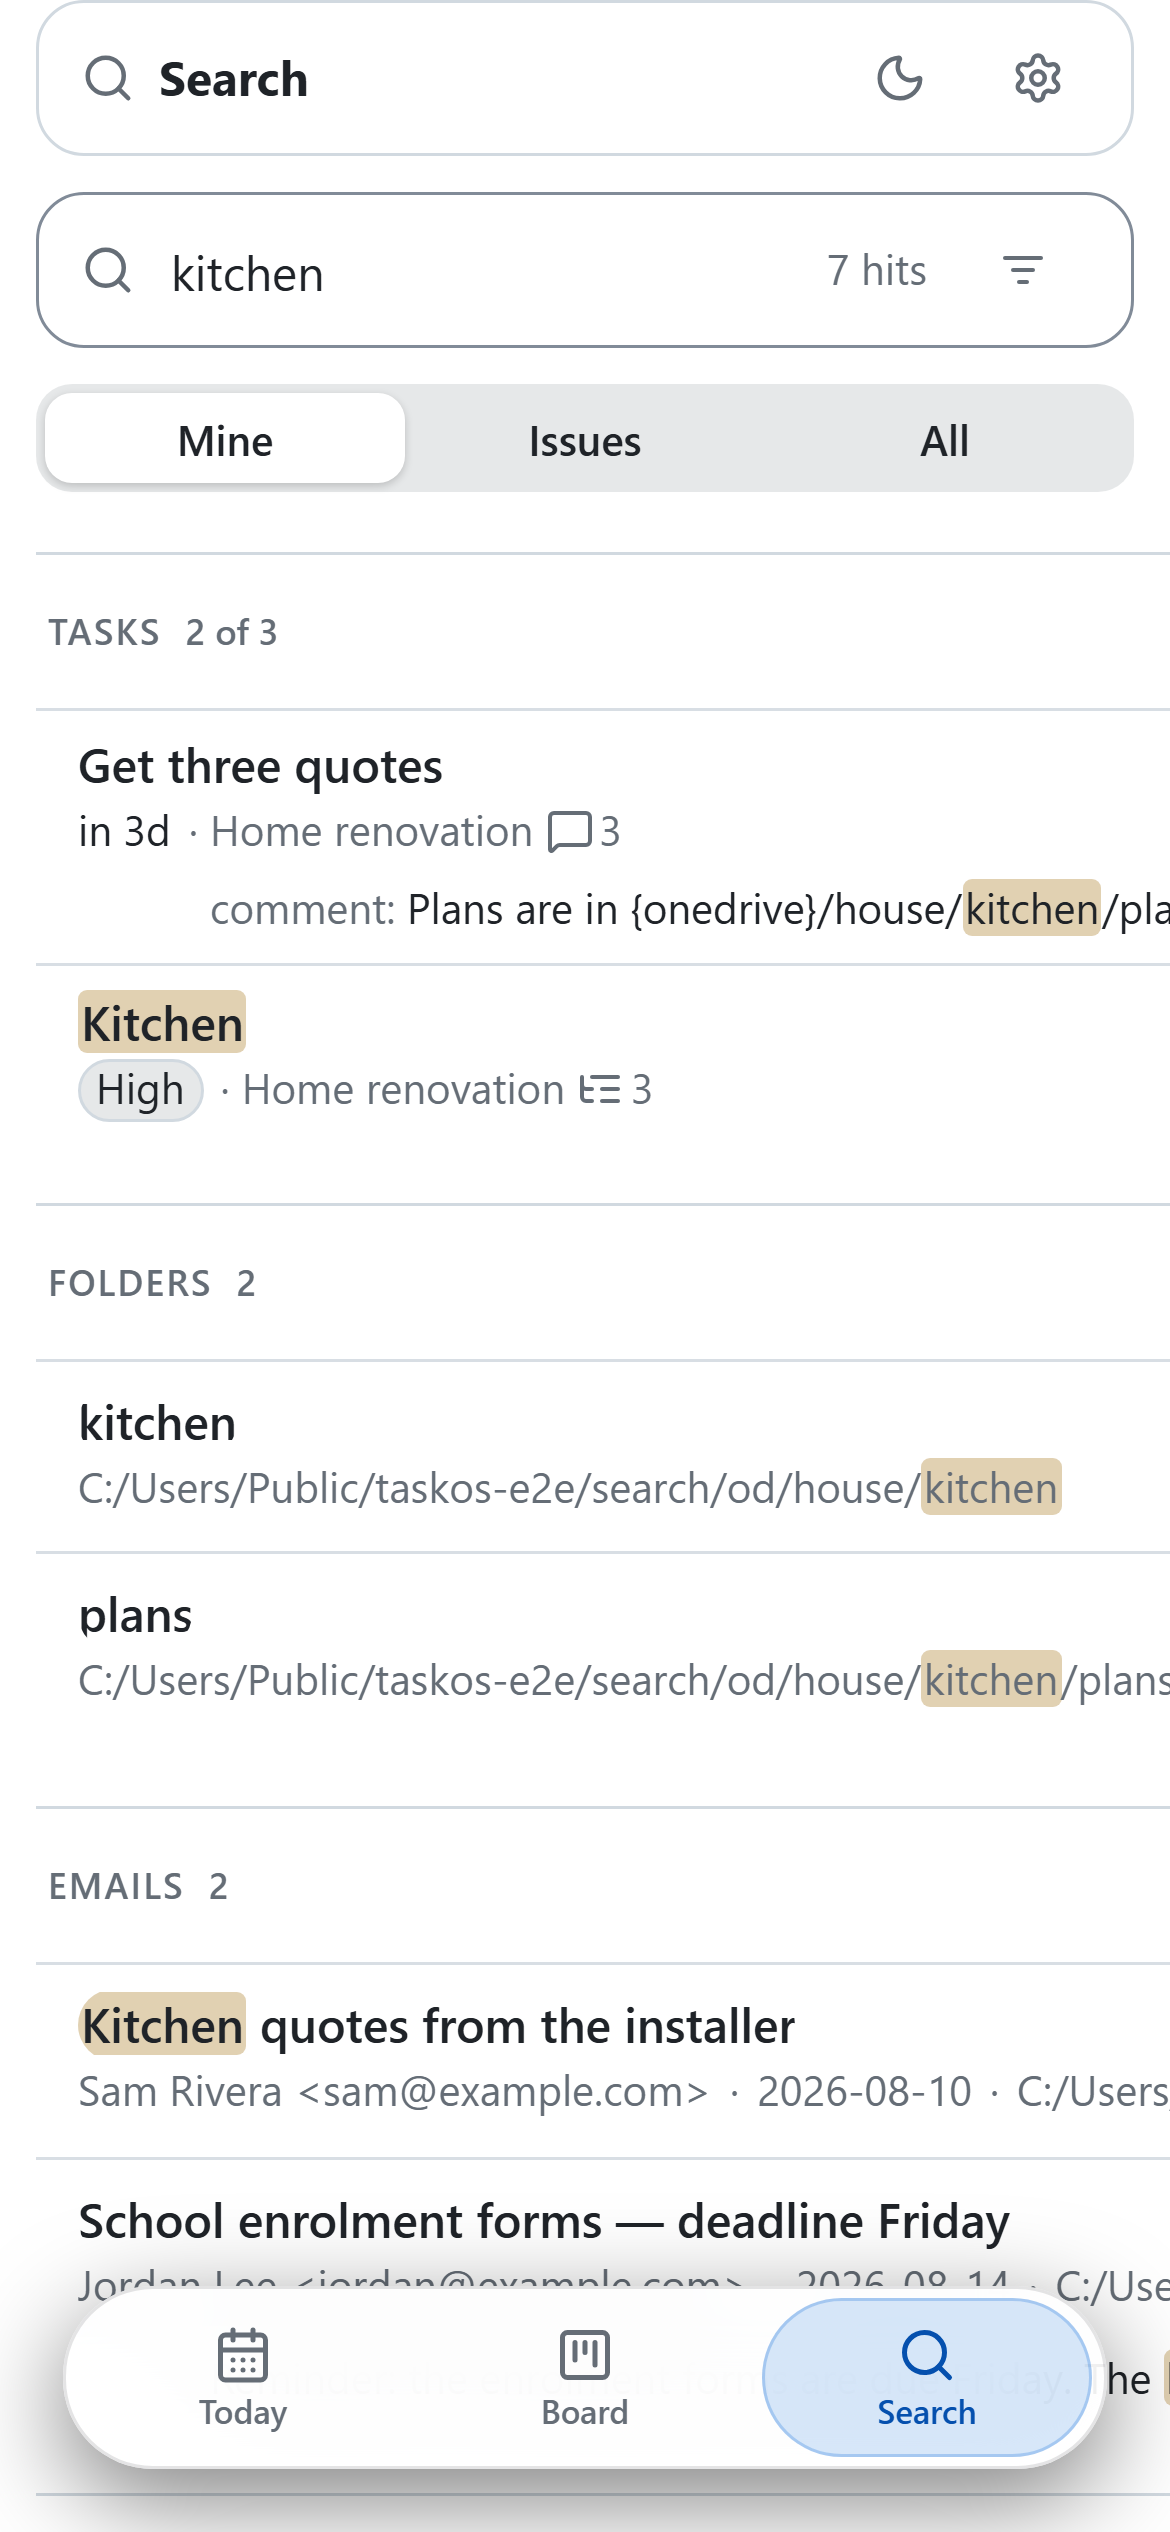
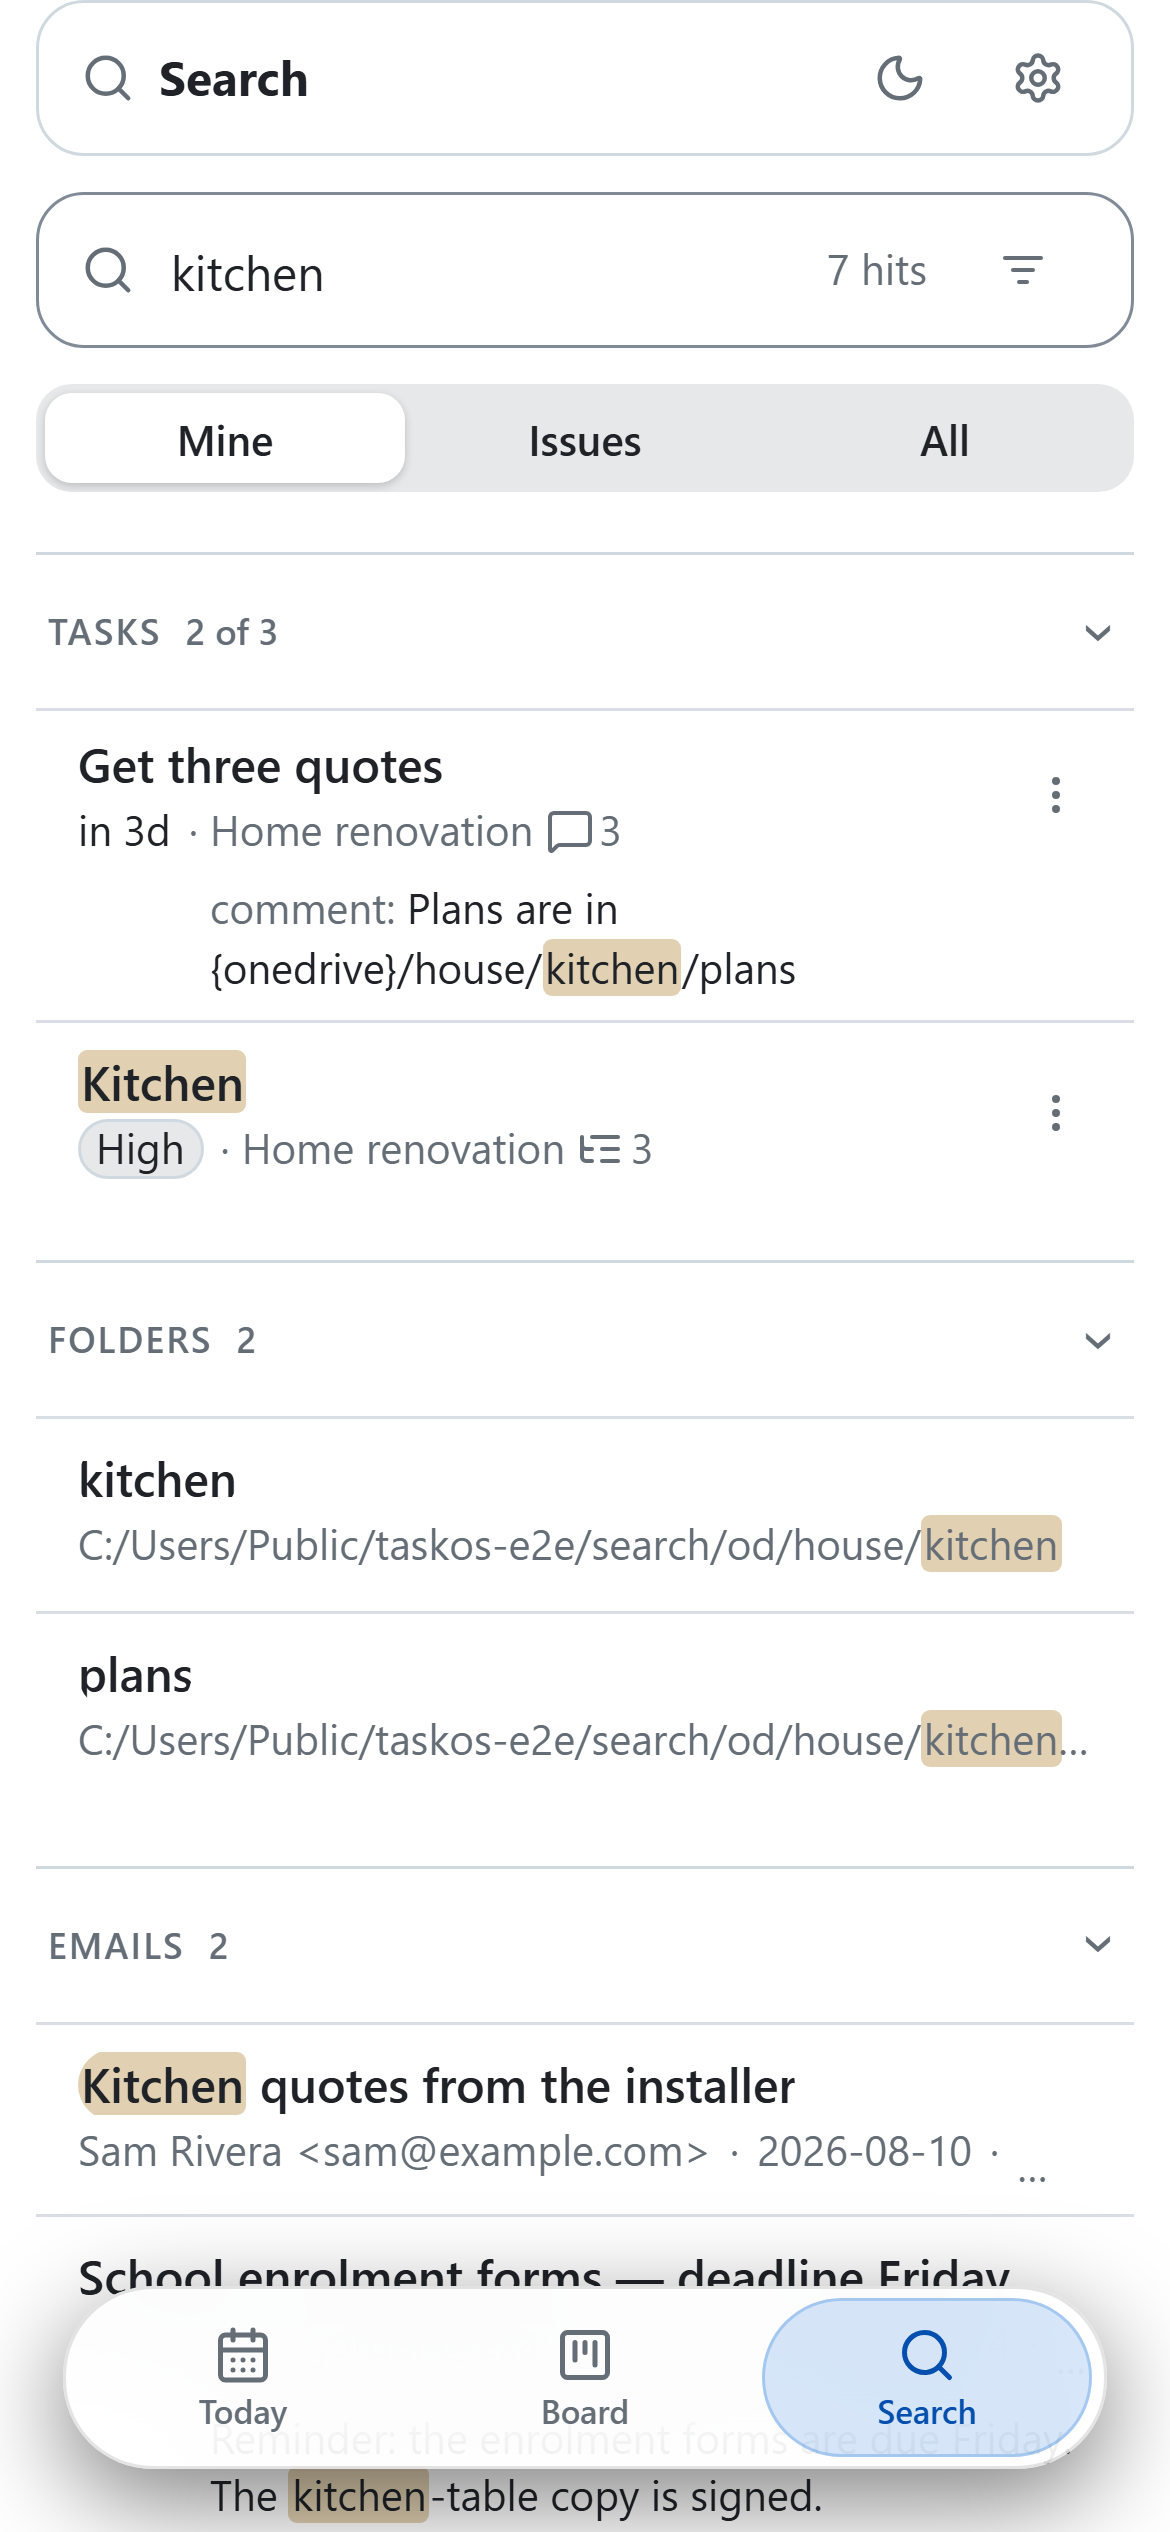
fix: Search hit rows no longer widen the page on a phone (#417) (#418)
- .search-group is a grid item whose auto minimum width was its nowrap
  meta row, so one long folder or project name stretched the group and
  the whole Search pane scrolled sideways at 390px; min-width: 0 lets the
  existing ellipsis do its job
- story 10's phone leg now walks an invented over-long folder and project
  and asserts scrollWidth <= clientWidth (fails on the old CSS: 980 > 390)
- re-baseline story-10 phone shots 6 and 7, whose layout is now the real
  390px column

diff --git a/app/webapp/static/styles.css b/app/webapp/static/styles.css
@@ -2069,7 +2069,9 @@ a.chip.chip-issue-closed { color: var(--muted); background: var(--card-off); bor
    one, a flat section per kind that has hits (the overline header Today's
    horizons use, #391), then the folded line for the rest. */
 .search-host { display: grid; gap: var(--space-sm); }
-.search-group { margin: 0; }
+/* min-width 0: a grid item's auto minimum is its nowrap content, so one long
+   hit meta row widened the group, and the page, past a phone (#417). */
+.search-group { margin: 0; min-width: 0; }
 .search-group-count { white-space: nowrap; }
 .search-hits { list-style: none; margin: 0; padding: 0; }
 .search-hit:first-child { border-top: 0; }

diff --git a/tests/e2e/test_story_10_search.py b/tests/e2e/test_story_10_search.py
@@ -107,6 +107,13 @@ def search_webapp() -> Iterator[SearchInstance]:
         log.close()
 
 
+def _task_post(base: str, body: dict) -> dict:
+    req = urllib.request.Request(f"{base}/api/tasks", data=json.dumps(body).encode("utf-8"), method="POST")
+    req.add_header("Content-Type", "application/json")
+    with urllib.request.urlopen(req, timeout=60) as res:
+        return json.loads(res.read().decode("utf-8"))
+
+
 def _task_by_title(base: str, title: str) -> dict:
     items = _get(base, "/api/tasks?q=" + urllib.request.quote(title) + "&include_closed=true")["items"]
     return next(t for t in items if t["title"] == title)
@@ -299,4 +306,19 @@ def test_find_anything(search_webapp: SearchInstance, browser: Browser, shots: P
     p.locator("#paletteInput").fill("water")
     expect(p.locator("#paletteList .palette-item[data-kind='task']").first).to_contain_text("Pay water bill")
     shot(p, shots / "story-10-search-7-phone.png")
+    p.keyboard.press("Escape")
+
+    # 8. a long hit never widens the page (#417): invented over-long names (a
+    # folder, a project holding the matching task) on a 390px screen. The grid
+    # item's auto minimum used to take the nowrap meta row's full width, and
+    # the whole Search pane scrolled sideways.
+    (inst.od / "house" / ("longprobe-" + "x" * 90)).mkdir()
+    _post(base, "/api/folders/reindex")
+    project = _task_post(base, {"title": "Quarterly-programme-" + "y" * 80})
+    _task_post(base, {"title": "Longprobe task", "parent_id": project["id"]})
+    p.goto(base + "/?q=longprobe#search")
+    expect(p.locator(".search-group[data-kind='tasks'] .search-hit.trow", has_text="Longprobe task")).to_be_visible()
+    expect(p.locator(".search-group[data-kind='folders'] .search-hit", has_text="longprobe-")).to_be_visible()
+    widths = p.evaluate("({scroll: document.documentElement.scrollWidth, client: document.documentElement.clientWidth})")
+    assert widths["scroll"] <= widths["client"], f"the page scrolls sideways: {widths}"
     phone.close()
